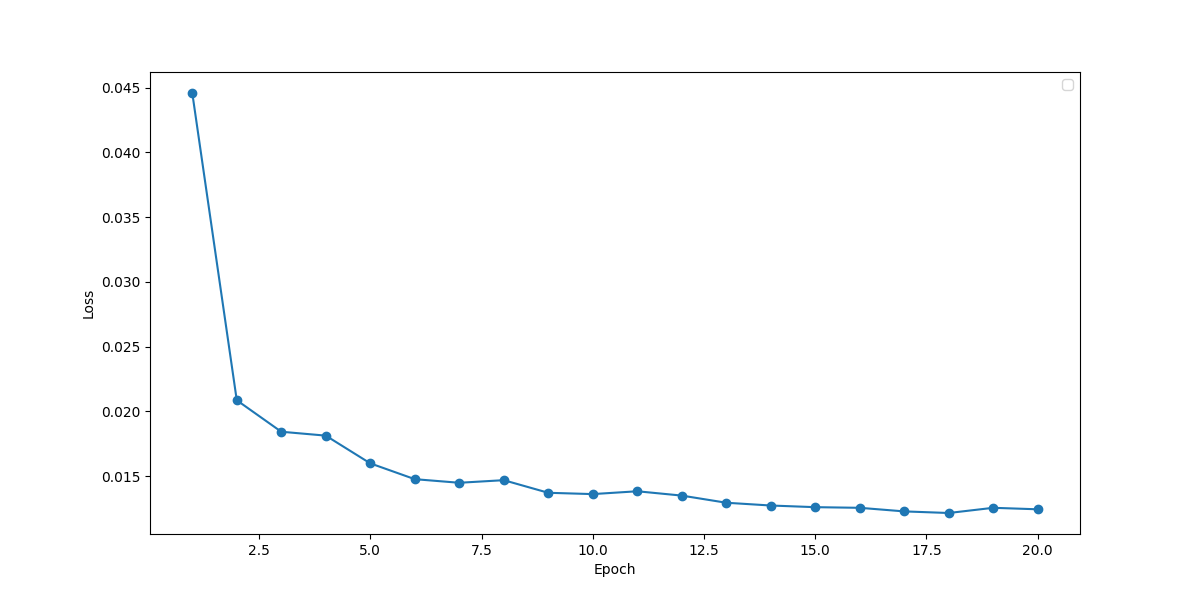
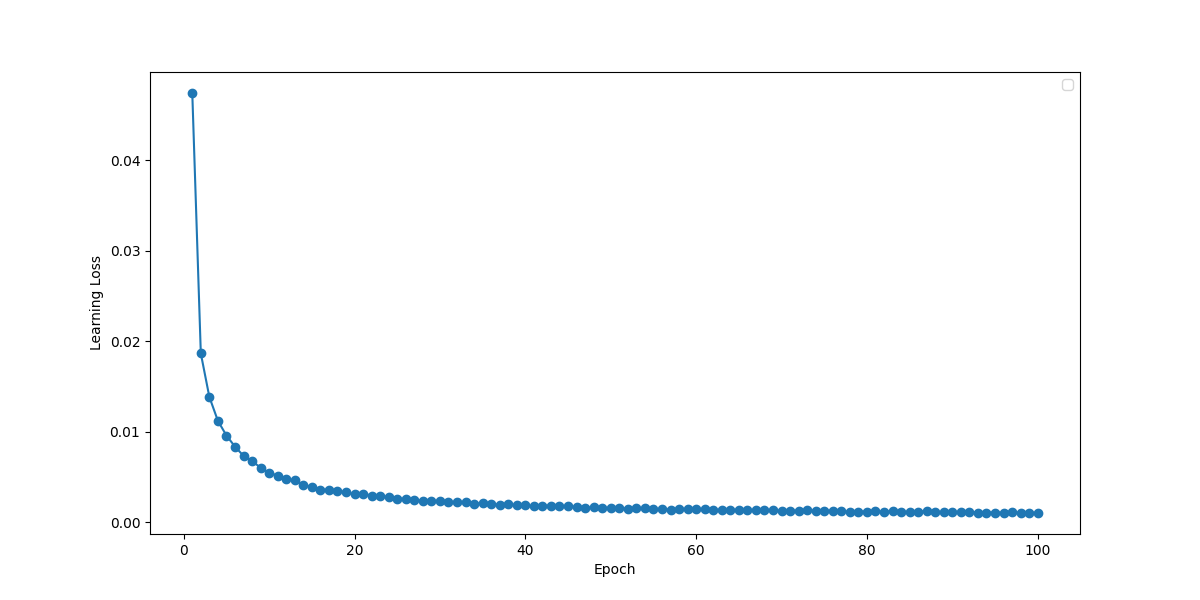
Update perceptron plots

diff --git a/src/fraud-detection/perceptron.py b/src/fraud-detection/perceptron.py
@@ -45,17 +45,23 @@ class MLP(nn.Module):
         super(MLP, self).__init__()
         self.model = nn.Sequential(
             nn.Linear(input_size, 128),
+            nn.BatchNorm1d(128),  # Нормализация для стабилизации
             nn.ReLU(),
-            nn.Dropout(0.3),
+            nn.Dropout(0.2),
+
             nn.Linear(128, 64),
+            nn.BatchNorm1d(64),
             nn.ReLU(),
-            nn.Dropout(0.3),
+            nn.Dropout(0.2),
+
             nn.Linear(64, 32),
+            nn.BatchNorm1d(32),
             nn.ReLU(),
+
             nn.Linear(32, 1),
-            nn.Sigmoid()
+            nn.Sigmoid()  # Для предсказания вероятностей
         )
-    
+
     def forward(self, x):
         return self.model(x)
 
@@ -63,46 +69,71 @@ class MLP(nn.Module):
 input_size = X_train.shape[1]
 model = MLP(input_size)
 
-# Определение функции потерь и оптимизатора
+# Функция потерь и оптимизатор
 criterion = nn.BCELoss()
-optimizer = optim.Adam(model.parameters(), lr=0.001)
+optimizer = optim.AdamW(model.parameters(), lr=1e-4, weight_decay=1e-4)  # AdamW для лучшей регуляризации
 
-# Обучение модели
-num_epochs = 20
+# Сборка результатов
+num_epochs = 100
+accumulation_steps = 4  # Накопление градиентов для уменьшения шума
+
 train_losses = []
 val_roc_auc = []
 train_time = []
+best_roc_auc = 0
+early_stop_counter = 0
 
+# Цикл обучения
 for epoch in range(num_epochs):
     model.train()
-    epoch_start = time.time()
     epoch_loss = 0.0
-    
-    for X_batch, y_batch in train_loader:
-        optimizer.zero_grad()
+    epoch_start = time.time()
+
+    optimizer.zero_grad()
+    for step, (X_batch, y_batch) in enumerate(train_loader):
         y_pred = model(X_batch).squeeze()
         loss = criterion(y_pred, y_batch)
+        loss = loss / accumulation_steps  # Делим loss на количество шагов для накопления
         loss.backward()
-        optimizer.step()
+
+        if (step + 1) % accumulation_steps == 0:
+            optimizer.step()
+            optimizer.zero_grad()
+
         epoch_loss += loss.item()
-    
+
     train_losses.append(epoch_loss / len(train_loader))
     epoch_end = time.time()
     train_time.append(epoch_end - epoch_start)
 
-    # Оценка на тестовом наборе
+    # Оценка на валидации
     model.eval()
     y_test_pred = []
     with torch.no_grad():
         for X_batch, _ in test_loader:
             y_batch_pred = model(X_batch).squeeze()
             y_test_pred.extend(y_batch_pred.tolist())
-    
+
     # Расчет ROC-AUC
     roc_auc = roc_auc_score(y_test, y_test_pred)
     val_roc_auc.append(roc_auc)
 
     print(f"Epoch {epoch + 1}/{num_epochs}, Loss: {train_losses[-1]:.4f}, ROC-AUC: {roc_auc:.4f}")
+
+    # Early Stopping
+    if roc_auc > best_roc_auc:
+        best_roc_auc = roc_auc
+        early_stop_counter = 0
+        best_model = model.state_dict()
+    else:
+        early_stop_counter += 1
+
+    if early_stop_counter >= 30:
+        print("Early stopping triggered!")
+        break
+
+# Загрузка лучших весов
+model.load_state_dict(best_model)
 
 # Финальная оценка метрик
 model.eval()
@@ -125,30 +156,26 @@ print(f"Recall: {recall:.4f}")
 print(f"F1 Score: {f1:.4f}")
 print(f"ROC-AUC: {roc_auc:.4f}")
 
-# Построение графиков
-plt.figure(figsize=(12, 6))
-
 # График ошибки
 plt.figure(figsize=(12, 6))
-plt.plot(range(1, num_epochs + 1), train_losses, marker='o')
+plt.plot(range(1, len(train_losses) + 1), train_losses, marker='o')  # Учитываем фактическую длину
 plt.xlabel('Epoch')
-plt.ylabel('Loss')
+plt.ylabel('Learning Loss')
 plt.legend()
+plt.show()
 
 # График ROC-AUC
 plt.figure(figsize=(12, 6))
-plt.plot(range(1, num_epochs + 1), val_roc_auc, marker='o')
+plt.plot(range(1, len(val_roc_auc) + 1), val_roc_auc, marker='o')  # Учитываем фактическую длину
 plt.xlabel('Epoch')
 plt.ylabel('ROC-AUC')
 plt.legend()
-
-plt.tight_layout()
 plt.show()
 
 # График кумулятивного времени
-cumulative_time = np.cumsum(train_time)
+cumulative_time = np.cumsum(train_time)  # Учитываем фактическую длину train_time
 plt.figure(figsize=(12, 6))
-plt.plot(range(1, num_epochs + 1), cumulative_time, marker='o')
+plt.plot(range(1, len(cumulative_time) + 1), cumulative_time, marker='o')
 plt.xlabel('Epoch')
 plt.ylabel('Cumulative Learning Time (seconds)')
 plt.legend()
